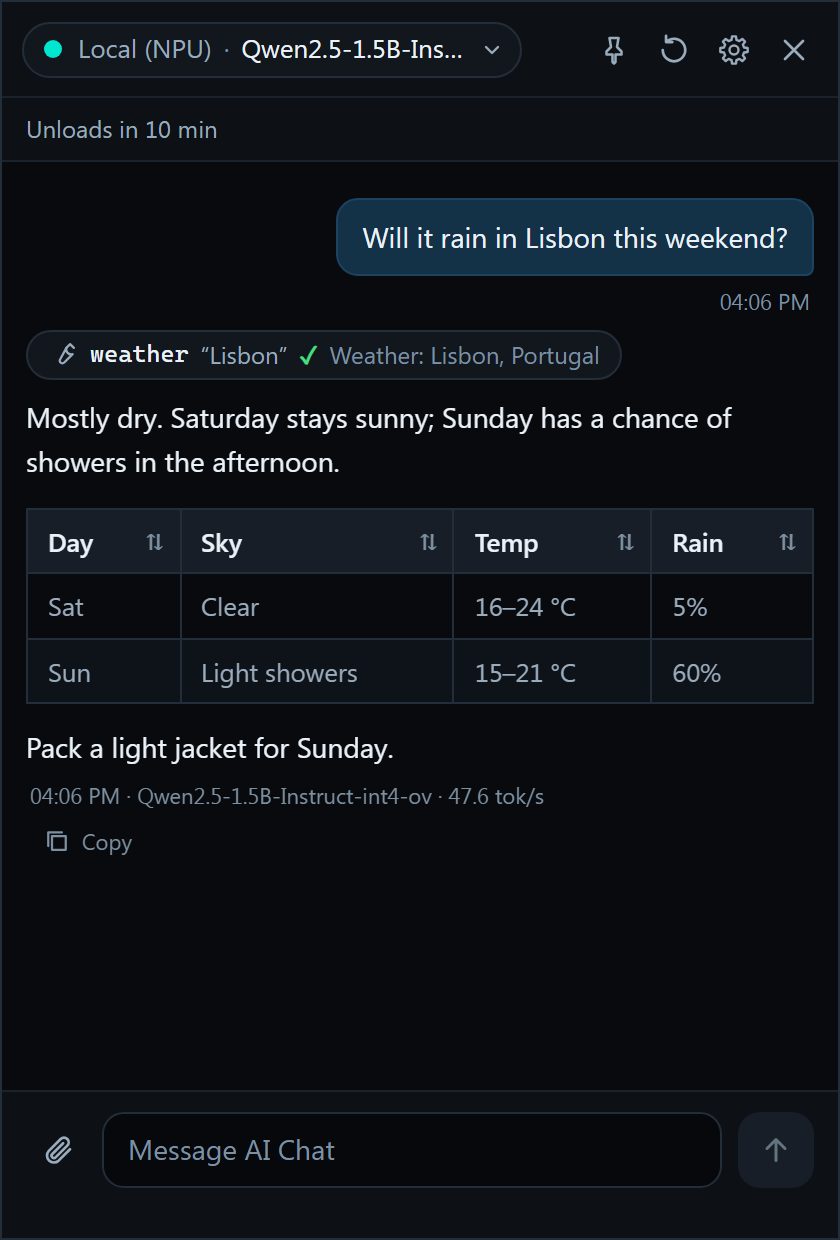
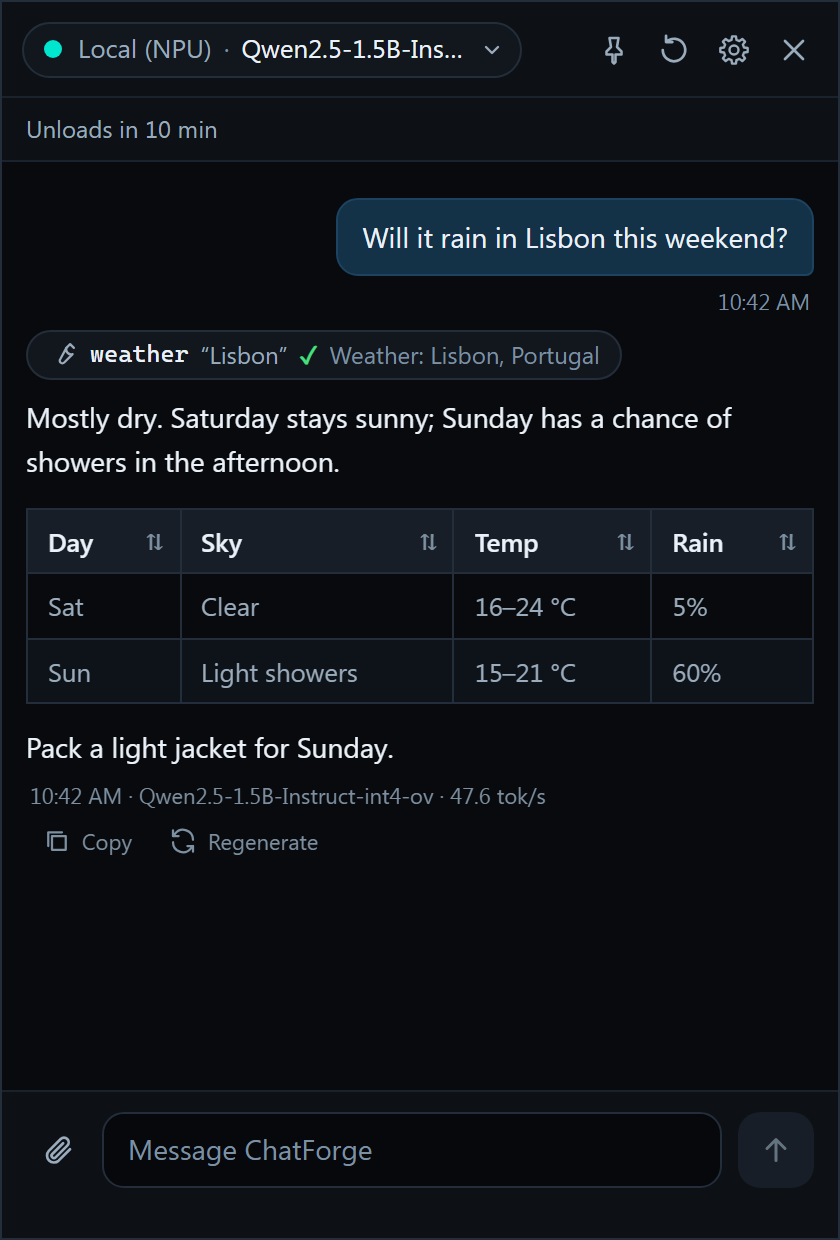
docs: ChatForge screenshots and diagram
- Popup screenshots retaken from the dev mock: "Message ChatForge", Copy and Regenerate
  under replies, and the model menu's Recently used section
- how-it-works.svg: the local model loads when the popup opens, new models compile for
  the NPU while idle, models the NPU cannot run correctly run on the GPU
- README alt text updated to match

diff --git a/README.md b/README.md
@@ -28,7 +28,7 @@ and Ubuntu, and the JS tests on Node 24. Questions and bug reports: [Contact](#c
 
 ### In plain English
 
-<p align="center"><img src="docs/images/how-it-works.svg" alt="ChatForge in plain English: you press Ctrl+Alt+C or the Copilot key, or click the tray icon, and a popup opens at the lower right; ChatForge sends the question, with the text of any attached files, to the model you chose and gives it live internet tools, looks live data up first for the small NPU model, replaces a refusal with a real lookup and can retry elsewhere if the NPU model fails; the answer comes from Qwen2.5-1.5B on your NPU, your StudioForge GPU server, MiniMax, OpenAI, DeepSeek or any OpenAI-compatible server; nine tools (web search, news search, page fetch, weather, Wikipedia, exchange rates, date and time, calculator, create a document) let the model look things up and save files" width="1100"></p>
+<p align="center"><img src="docs/images/how-it-works.svg" alt="ChatForge in plain English: you press Ctrl+Alt+C or the Copilot key, or click the tray icon, and a popup opens at the lower right; ChatForge sends the question, with the text of any attached files, to the model you chose and gives it live internet tools, looks live data up first for the small NPU model, replaces a refusal with a real lookup, can retry elsewhere if the NPU model fails, compiles new models for the NPU while idle and keeps API keys in Credential Manager; the answer comes from Qwen2.5-1.5B on your NPU, your StudioForge GPU server, MiniMax, OpenAI, DeepSeek or any OpenAI-compatible server; the NPU model needs no account, loads when the popup opens with it selected, unloads after 10 idle minutes, and a model the NPU cannot run correctly runs on the GPU; nine tools (web search, news search, page fetch, weather, Wikipedia, exchange rates, date and time, calculator, create a document) let the model look things up and save files" width="1100"></p>
 
 Three ideas: a hotkey opens a chat from any app and Escape puts it away; the everyday model runs
 on the laptop's NPU, so a quick question needs no account and has no per-token bill; and when a
@@ -211,11 +211,11 @@ which model wrote it and how fast:
 
 | A weather question, answered on the NPU | A spreadsheet in, a Word report out |
 | --- | --- |
-| ![The chat popup in the dark LaserLloyd theme. The header chip reads "Local (NPU) · Qwen2.5-1.5B-Instruct-int4-ov" with a ready dot, beside the pin, Clear chat (a circular arrow), Settings and Close buttons, and a status line says "Unloads in 10 min". The user asks "Will it rain in Lisbon this weekend?"; a weather tool chip shows "Lisbon" and the result "Weather: Lisbon, Portugal"; the answer is a short paragraph and a Markdown table of Saturday and Sunday with sky, temperature and chance of rain, signed "Qwen2.5-1.5B-Instruct-int4-ov · 47.6 tok/s". The composer has a paperclip button for attaching files](docs/images/chat-weather.png) | ![The popup with MiniMax-M3 selected. The user's message carries a file chip, "Q3 sales.xlsx, 47 KB · 12.8k chars", above the text "Summarise this sheet as a one-page Word report."; the reply has a create_document tool chip reading "Saved Q3 sales summary.docx", a short bulleted summary of revenue, best month and top product, and a document card for "Q3 sales summary.docx" (DOCX · 9 KB) with Open and Show in folder buttons, signed "MiniMax-M3 · 61.8 tok/s"](docs/images/chat-files.png) |
+| ![The chat popup in the dark LaserLloyd theme. The header chip reads "Local (NPU) · Qwen2.5-1.5B-Instruct-int4-ov" with a ready dot, beside the pin, Clear chat (a circular arrow), Settings and Close buttons, and a status line says "Unloads in 10 min". The user asks "Will it rain in Lisbon this weekend?"; a weather tool chip shows "Lisbon" and the result "Weather: Lisbon, Portugal"; the answer is a short paragraph and a Markdown table of Saturday and Sunday with sky, temperature and chance of rain, signed "Qwen2.5-1.5B-Instruct-int4-ov · 47.6 tok/s", with Copy and Regenerate buttons under it. The composer has a paperclip button for attaching files and the placeholder "Message ChatForge"](docs/images/chat-weather.png) | ![The popup with MiniMax-M3 selected. The user's message carries a file chip, "Q3 sales.xlsx, 47 KB · 12.8k chars", above the text "Summarise this sheet as a one-page Word report."; the reply has a create_document tool chip reading "Saved Q3 sales summary.docx", a short bulleted summary of revenue, best month and top product, and a document card for "Q3 sales summary.docx" (DOCX · 9 KB) with Open and Show in folder buttons, signed "MiniMax-M3 · 61.8 tok/s", with Copy and Regenerate buttons under it](docs/images/chat-files.png) |
 
-The model menu lists only the providers that are set up:
+The model menu starts with the models you used last, then lists only the providers that are set up:
 
-<p align="center"><img src="docs/images/model-menu.png" alt="The popup with the model menu open over the empty chat. Groups for Local (NPU) with Qwen2.5-1.5B-Instruct-int4-ov ticked, MiniMax with four models, and StudioForge with one model; OpenAI and DeepSeek are absent because no key is saved for them. Below a separator: Unload model and Manage models…" width="420"></p>
+<p align="center"><img src="docs/images/model-menu.png" alt="The popup with the model menu open over the empty chat. At the top, Recently used lists Qwen2.5-1.5B-Instruct-int4-ov (ticked), MiniMax-M3 and Qwen3.8-27B-Q5_K_S, each with its provider (Local (NPU), MiniMax, StudioForge) on the right. Below a separator come the provider groups: Local (NPU) with Qwen2.5-1.5B-Instruct-int4-ov ticked and MiniMax with four models; a scrollbar shows the menu goes on (StudioForge, Unload model and Manage models…). OpenAI and DeepSeek are absent because no key is saved for them" width="420"></p>
 
 Settings has four tabs: **Models**, **Providers**, **General** and **Logs**.
 
